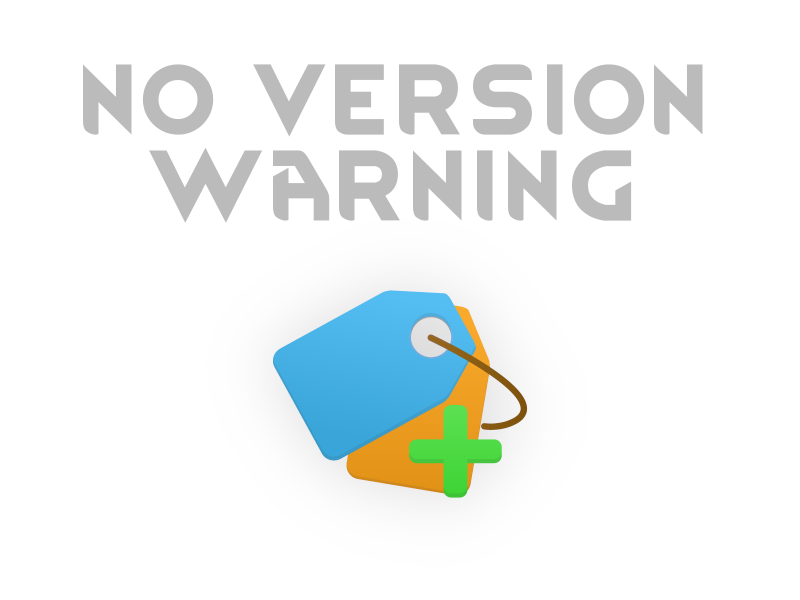
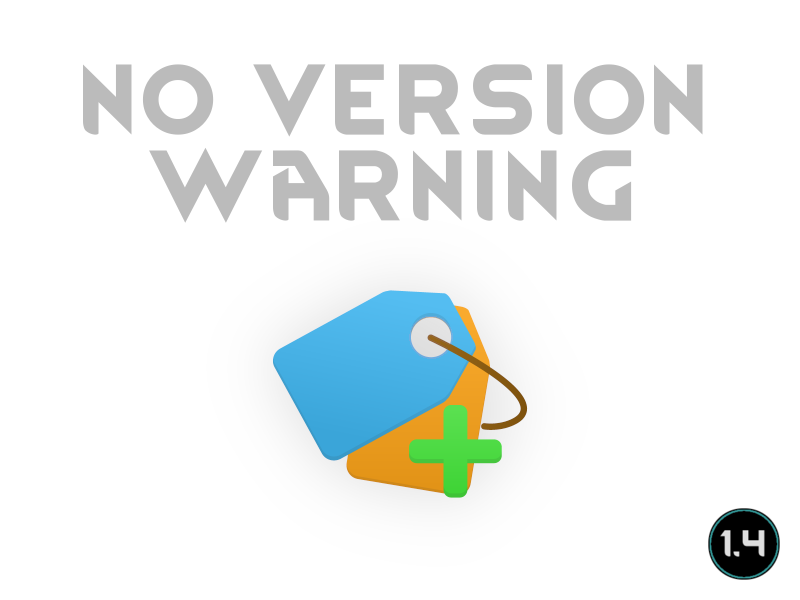
Added some more reported mods as well as removed Glowstones as it was not error-free

Changed region(s): [[0.875, 0.84, 1.0, 0.99]]

diff --git a/MODS.md b/MODS.md
@@ -116,7 +116,6 @@
 - [Opened Doors Don't Block Light](https://steamcommunity.com/sharedfiles/filedetails/?id=2583820138)
 - [No Edge Fade - Lite](https://steamcommunity.com/sharedfiles/filedetails/?id=2048191451)
 - [[1.3] WoodLog to WoodPlanks](https://steamcommunity.com/sharedfiles/filedetails/?id=1621766001)
-- [Glowstone](https://steamcommunity.com/sharedfiles/filedetails/?id=1545160307)
 - [Silent Sleep Accelerators](https://steamcommunity.com/sharedfiles/filedetails/?id=2582185182)
 - [Animal Filth? Don't Care](https://steamcommunity.com/sharedfiles/filedetails/?id=2573432875)
 - [Polyamory Gloomy Bed](https://steamcommunity.com/sharedfiles/filedetails/?id=2416237058)
@@ -146,6 +145,14 @@
 - [[CZK] Combat Training ReTextured](https://steamcommunity.com/sharedfiles/filedetails/?id=2592769651)
 - [[CZK] Textures - Enhanced Eyes](https://steamcommunity.com/sharedfiles/filedetails/?id=2592769472)
 - [[CZK] Textures - Eyepatch](https://steamcommunity.com/sharedfiles/filedetails/?id=2592769267)
+- [[FSF] Improved Ship Reactors](https://steamcommunity.com/sharedfiles/filedetails/?id=817349848)
+- [TasteOfVanilla-ish Hotspring Retexture](https://steamcommunity.com/sharedfiles/filedetails/?id=2798232828)
+- [Wolfs GauMedicine](https://steamcommunity.com/sharedfiles/filedetails/?id=2788115190)
+- [Psy-Eltex](https://steamcommunity.com/sharedfiles/filedetails/?id=2366166093)
+- [Mending Medieval](https://steamcommunity.com/sharedfiles/filedetails/?id=1880329210)
+- [[SC]Thrumbo Horn Weapons](https://steamcommunity.com/sharedfiles/filedetails/?id=2382320670)
+- [Extract Tree Order](https://steamcommunity.com/sharedfiles/filedetails/?id=2583031446)
+- [Baby muffalo is Muffalump](https://steamcommunity.com/sharedfiles/filedetails/?id=1499253609)
 
 ## 1.3
 

diff --git a/README.md b/README.md
@@ -34,4 +34,6 @@ https://ko-fi.com/G2G55DDYD]![Image](https://i.imgur.com/VWG0yff.png)
 -  If you have the solution for a problem, please post it to the GitHub repository.
 
 
-https://steamcommunity.com/sharedfiles/filedetails/changelog/2599504692]Last updated 2023-05-12
+
+https://steamcommunity.com/sharedfiles/filedetails/changelog/2599504692]![Image](https://img.shields.io/github/v/release/emipa606/NoVersionWarning?label=latest%20version&style=plastic&labelColor=0070cd&color=white)
+
